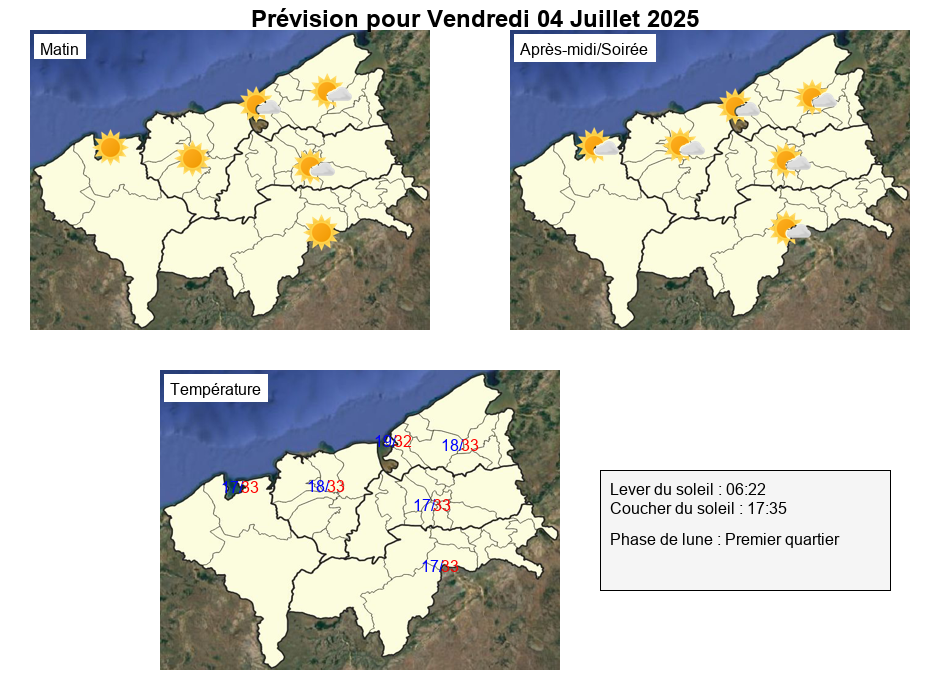
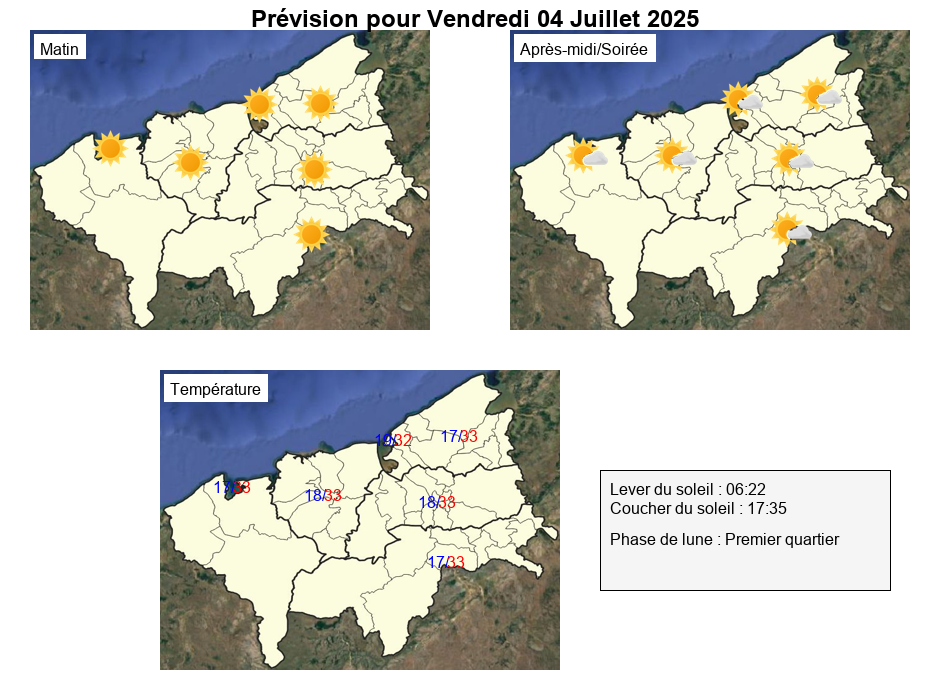
Forecast on 04/07/2025
Forecast on 04/07/2025

diff --git a/script.js b/script.js
@@ -1,5 +1,5 @@
 // --- CONFIGURABLE PARAMETERS ---
-const niveauAlerte = "red";       // Options: "none", "blue", "green", "yellow", "red"
+const niveauAlerte = "none";       // Options: "none", "blue", "green", "yellow", "red"
 const typeCatastrophe = "wind"; // Options: "cyclone", "flood", "rainflood", "forestfire", "lightning", "stormsurge", "drivingconditions"
 
 const vigilanceMessages = [
@@ -35,7 +35,7 @@ Mahajanga sy Analalava.
 
 
 ⚠Entanina ny rehetra mba hanaraka hatrany ny toromarika omen’ny manam-pahefana isan-tokony.⚠`,
-        image: 'vigilance_vent.png'
+        image: 'vigilance_vent1.png'
     },
     {
         message: `**Vigilance vent fort**  
@@ -67,16 +67,20 @@ const MarineMessages = [
     {
         message: `**BULLETIN MARINE HAUTE MER**
 
-        BULLETIN DE PRÉVISION POUR LA MARINE DESTINE A LA NAVIGATION HAUTE MER 
-        (DE 10°S A 30°S / COTES AFRICAINES A 60°E ET DE 05°S A 30°S / 60°E A 70°E) 
-        ÉTABLI PAR MÉTÉO MADAGASCAR LE 02/07/2025 A 10 TU, 
-        VALABLE LE 02/07/2025 A 10 TU JUSQU’AU 03/07/2025 A 10 TU. 
-        LE VENT DONNE DANS CE BULLETIN CORRESPOND AU VENT MOYEN EN NŒUD ET LA HAUTEUR DE VAGUE REPRÉSENTE LA HAUTEUR SIGNIFICATIVE (H1/3) N MÈTRES.
+BULLETIN DE PRÉVISION POUR LA MARINE DESTINE A LA NAVIGATION HAUTE MER 
+(DE 10°S A 30°S / COTES AFRICAINES A 60°E ET DE 05°S A 30°S / 60°E A 70°E) 
+ÉTABLI PAR MÉTÉO MADAGASCAR LE 03/07/2025 A 10 TU, 
+VALABLE LE 03/07/2025 A 10 TU JUSQU’AU 04/07/2025 A 10 TU. 
+LE VENT DONNE DANS CE BULLETIN CORRESPOND AU VENT MOYEN EN NŒUD ET LA HAUTEUR DE VAGUE REPRÉSENTE LA HAUTEUR SIGNIFICATIVE (H1/3) N MÈTRES.
+
+**situation generale**:
+BASSES PRESSIONS AU NORD DE 10S ;
+ANTICYCLONE 1036 HPA CENTRE PAR 36S/51E.
 
 **10S/20S **:
-**VENT **: SUD A SUD-EST 10/20, ATTEIGNANT 25/30 ENTRE MAHAJANGA ET ANALALAVA.
-**ÉTAT DE LA MER** : PEU AGITÉE A AGITÉE.
-**TEMPS **: FAIBLES AVERSES ISOLÉES AU NORD DE 16S, PARTIELLEMENT NUAGEUX AILLEURS.
+**VENT **: VARIABLE 05/10 AU SUD DE 15S, AILLEURS SUD-EST 15/20 LOCALEMENT 25/30 SUR LA PARTIE CENTRALES DES COTES NORD-OUEST DE MADAGASCAR LE MATIN.
+**ÉTAT DE LA MER **: PEU AGITÉE A AGITÉE.
+**TEMPS** : FAIBLES AVERSES ISOLÉES SUR LA PARTIE OUEST.
         `,
         image: 'Image_marine_haute_mer_SITEWEB.png'
     }
@@ -85,20 +89,20 @@ const MarineMessages = [
 
 
     const templates = [
-        `Temps ensoleillé toute la journée.  
-**Vents** : Vents modéré à fort du secteur ESE  
-**Températures minimales** : entre 17 et 19 °C  
-**Températures maximales** : entre 33 et 34 °C.`,
-
         `Temps ensoleillé le matin, peu nuageux l'après-midi.  
-**Vents** : Vents modéré à fort de secteur ESE  
+**Vents** : Vents modéré à fort du secteur ESE  
 **Températures minimales** : entre 17 et 19 °C  
 **Températures maximales** : entre 32 et 33 °C.`,
 
-        `Temps ensoleillé toute la journée.  
+        `Temps ensoleillé le matin, peu nuageux et nuageux à l'Est de la région durant l'après-midi.  
 **Vents** : Vents modéré à fort de secteur ESE  
-**Températures minimales** : entre 17 et 19 °C  
-**Températures maximales** : entre 31 et 32 °C.`
+**Températures minimales** : entre 16 et 18 °C  
+**Températures maximales** : entre 31 et 32 °C.`,
+
+        `Temps peu nuageux le matin, et nuageux l'après-midi et le soir.  
+**Vents** : Vents modéré de secteur ESE  
+**Températures minimales** : entre 19 et 20 °C  
+**Températures maximales** : entre 32 et 33 °C.`
 
     ];
 
@@ -254,7 +258,7 @@ async function displayMessages() {
         for (const entry of validEntries) {
             hideImages();
             await scrollMessage(entry.message);
-            await new Promise(resolve => setTimeout(resolve, 1800));
+            await new Promise(resolve => setTimeout(resolve, 2000));
 
             imageContainer.innerHTML = '';
             const img = document.createElement('img');
@@ -263,7 +267,7 @@ async function displayMessages() {
             imageContainer.appendChild(img);
             setTimeout(() => {
                 imageContainer.style.opacity = 1;
-            }, 900);
+            }, 1000);
 
             await new Promise(resolve => setTimeout(resolve, 9000));
         }
